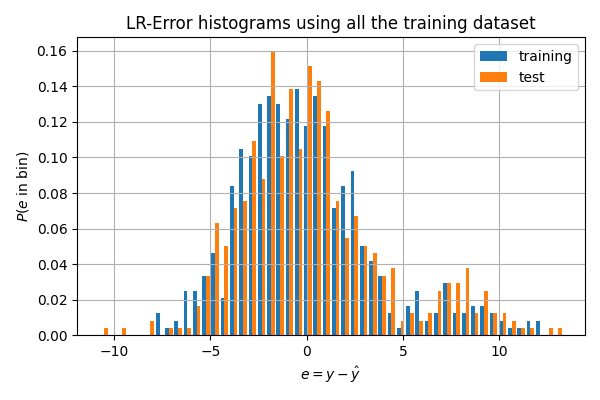
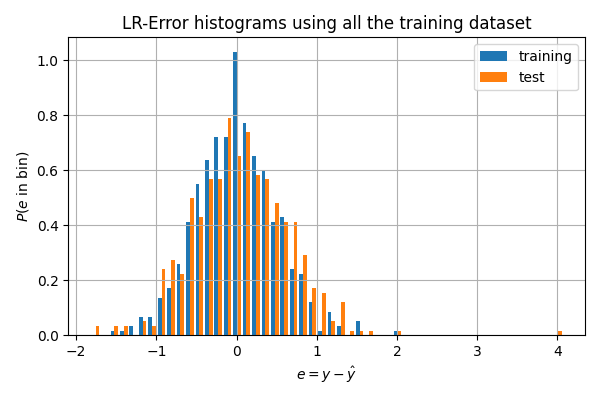
loop on random seed, dataframe->array

diff --git a/LAB01/sub/regression.py b/LAB01/sub/regression.py
@@ -18,9 +18,9 @@ class regression:
         self.y = y
         self.X_tr=X[0:Ntr]
         self.X_te=X[Ntr:]
-        self.y_tr=y[0:Ntr]
-        self.y_te=y[Ntr:]
-        self.w_hat_LSS = np.zeros((self.Nf, ), dtype=float)
+        self.y_tr=y[0:Ntr].values
+        self.y_te=y[Ntr:].values
+        self.w_hat_LLS = np.zeros((self.Nf, ), dtype=float)
         self.w_hat_SD = np.zeros((self.Nf, ), dtype=float)
         self.sy = sy
         self.my = my
@@ -30,8 +30,8 @@ class regression:
         m = mymin.SolveLLS(self.y_tr, self.X_tr)
         m.run()
         self.w_hat_LLS = m.sol
-        self.y_hat_te_LLS = self.X_te @ self.w_hat_LLS
-        self.y_hat_tr_LLS = self.X_tr @ self.w_hat_LLS
+        self.y_hat_te_LLS = self.X_te.values @ self.w_hat_LLS
+        self.y_hat_tr_LLS = self.X_tr.values @ self.w_hat_LLS
         return
 
     def plot_LLS_vs_SD(self):
@@ -51,27 +51,27 @@ class regression:
         #plt.show()
 
     def steepestDescent(self):
-        y_tr = self.y_tr.values
+        y_tr = self.y_tr
         X_tr = self.X_tr.values
         m = mymin.steepestDescentAlgorithm(y_tr, X_tr)
         m.run(Nit = 20, eps=1e-6)
         self.w_hat_SD = m.sol
-        self.y_hat_te_SD = self.X_te @ self.w_hat_SD
-        self.y_hat_tr_SD = self.X_tr @ self.w_hat_SD
+        self.y_hat_te_SD = self.X_te.values @ self.w_hat_SD
+        self.y_hat_tr_SD = self.X_tr.values @ self.w_hat_SD
         return
     
     def plotHistrogram(self, title = "LLS-Error", algorithm = "LLS"):
-        y_tr = self.y_tr.values
-        y_te = self.y_te.values
+        y_tr = self.y_tr
+        y_te = self.y_te
         if algorithm == "LLS":
-            y_hat_tr = self.y_hat_tr_LLS.values
-            y_hat_te = self.y_hat_te_LLS.values
+            y_hat_tr = self.y_hat_tr_LLS
+            y_hat_te = self.y_hat_te_LLS
         elif algorithm == "SD":
-            y_hat_tr = self.y_hat_tr_SD.values
-            y_hat_te = self.y_hat_te_SD.values
+            y_hat_tr = self.y_hat_tr_SD
+            y_hat_te = self.y_hat_te_SD
         elif algorithm == "LR":
-            y_hat_tr = self.y_hat_tr_LR.values
-            y_hat_te = self.y_hat_te_LR.values
+            y_hat_tr = self.y_hat_tr_LR
+            y_hat_te = self.y_hat_te_LR
         E_tr= y_tr.reshape(len(y_tr),1) - y_hat_tr.reshape(len(y_tr),1)# training
         E_te= y_te.reshape(len(y_tr),1) - y_hat_te.reshape(len(y_tr),1) # test
         e=[E_tr.reshape(len(E_tr), ),E_te.reshape(len(E_tr), )]
@@ -89,11 +89,11 @@ class regression:
 
     def plotRegressionLine(self, title = "yhat_vs_y.png", algorithm = "LLS"):
         if algorithm == "LLS":
-            y_hat_te = self.y_hat_te_LLS.values
+            y_hat_te = self.y_hat_te_LLS
         elif algorithm == "SD":
-            y_hat_te = self.y_hat_te_SD.values
+            y_hat_te = self.y_hat_te_SD
         elif algorithm == "LR":
-            y_hat_te = self.y_hat_te_LR.values
+            y_hat_te = self.y_hat_te_LR
         plt.figure(figsize=(6,4))
         plt.plot(self.y_te, y_hat_te,'.', label = algorithm)
         v=plt.axis()
@@ -119,19 +119,19 @@ class regression:
          self.y_tr = self.y_tr * sy + my
 
     def errorsAndCoefficients(self, algorithm = "LLS"):
-        y_tr = self.y_tr.values
-        y_te = self.y_te.values
+        y_tr = self.y_tr
+        y_te = self.y_te
         if algorithm == "LLS":
-            y_hat_tr = self.y_hat_tr_LLS.values
-            y_hat_te = self.y_hat_te_LLS.values
+            y_hat_tr = self.y_hat_tr_LLS
+            y_hat_te = self.y_hat_te_LLS
             print("LLS:\n")
         elif algorithm == "SD":
-            y_hat_tr = self.y_hat_tr_SD.values
-            y_hat_te = self.y_hat_te_SD.values
+            y_hat_tr = self.y_hat_tr_SD
+            y_hat_te = self.y_hat_te_SD
             print("Steepest descent: \n")
         elif algorithm == "LR":
-            y_hat_tr = self.y_hat_tr_LR.values
-            y_hat_te = self.y_hat_te_LR.values
+            y_hat_tr = self.y_hat_tr_LR
+            y_hat_te = self.y_hat_te_LR
             print("Local regression: \n")
         
         E_tr= y_tr.reshape(len(y_tr),1) - y_hat_tr.reshape(len(y_tr),1)# training
@@ -164,13 +164,14 @@ class regression:
     def localRegression(self, N):
         y_hat_te = np.zeros([self.Nte, 1])
         y_hat_tr = np.zeros([self.Ntr, 1])
-        
+        X_te = self.X_te.values
+        X_tr = self.X_tr.values
         for iter in range(self.Nte):
             dist_te = []
             dist_tr = []
             for i in range(self.Ntr):
-                dist_te.append(euclidean_distance(self.X_te.iloc[iter], self.X_tr.iloc[i]))
-                dist_tr.append(euclidean_distance(self.X_tr.iloc[iter], self.X_tr.iloc[i]))
+                dist_te.append(euclidean_distance(X_te[iter, :], X_tr[i, :]))
+                dist_tr.append(euclidean_distance(X_tr[iter, :], X_tr[i, :]))
             
             neighbors_index_te = np.argsort(dist_te)
             neighbors_index_tr = np.argsort(dist_tr)
@@ -180,27 +181,24 @@ class regression:
             neighbors_ytr_tr = np.zeros([N, 1])
             for i in range(N):
                 
-                neighbors_Xtr_te[i] = self.X_tr.values[neighbors_index_te[i]]
-                neighbors_ytr_te[i] = self.y_tr.values[neighbors_index_te[i]]
+                neighbors_Xtr_te[i] = X_tr[neighbors_index_te[i]]
+                neighbors_ytr_te[i] = self.y_tr[neighbors_index_te[i]]
                  
-                neighbors_Xtr_tr[i] = self.X_tr.values[neighbors_index_tr[i]]
-                neighbors_ytr_tr[i] = self.y_tr.values[neighbors_index_tr[i]]
+                neighbors_Xtr_tr[i] = X_tr[neighbors_index_tr[i]]
+                neighbors_ytr_tr[i] = self.y_tr[neighbors_index_tr[i]]
 
-            X_tr_te = neighbors_Xtr_te
-            y_tr_te = neighbors_ytr_te
-            m1 = mymin.steepestDescentAlgorithm(y_tr_te, X_tr_te)
+
+            m1 = mymin.steepestDescentAlgorithm(neighbors_ytr_te, neighbors_Xtr_te)
             m1.run()
             w_hat_te = m1.sol
-            y_hat = self.X_te.iloc[iter] @ w_hat_te
+            y_hat = X_te[iter, :] @ w_hat_te
             y_hat_te[iter] = y_hat
               
-            X_tr_tr = np.array(neighbors_Xtr_tr)
-            y_tr_tr = np.array(neighbors_ytr_tr)
-            m2 = mymin.steepestDescentAlgorithm(y_tr_tr, X_tr_tr)
+            m2 = mymin.steepestDescentAlgorithm(neighbors_ytr_tr, neighbors_Xtr_tr)
             m2.run()
             w_hat_tr = m2.sol
-            y_hat = self.X_tr.iloc[iter] @ w_hat_tr
+            y_hat = X_tr[iter, :] @ w_hat_tr
             y_hat_tr[iter] = y_hat
 
-        self.y_hat_te_LR = pd.DataFrame(y_hat_te)
-        self.y_hat_tr_LR = pd.DataFrame(y_hat_tr)    
+        self.y_hat_te_LR = y_hat_te
+        self.y_hat_tr_LR = y_hat_tr    

diff --git a/LAB01/parkinson.py b/LAB01/parkinson.py
@@ -1,4 +1,4 @@
-#%%
+
 import sub.regression as myreg
 import numpy as np
 import matplotlib.pyplot as plt
@@ -28,6 +28,7 @@ print("\nThe features of the dataset are ", len(features))
 print("\n", features)
 print("\n\n")
 Np, Nc = X.shape
+Nf = Nc - 4
 Ntr = int(Np*0.5)
 Nte = Np - Ntr
 # Measure and show the covariance matrix
@@ -53,12 +54,17 @@ plt.savefig("C:\Coding\ICT_for_health\LAB01\charts\corr_coeffTotal.png")
 #plt.show()
 
 #Shuffle the data
-y_hat_tr_LLS = np.empty([Ntr,n_different_seed])
-y_hat_te_LLS = np.empty([Nte,n_different_seed])
-y_hat_tr_SD = np.empty([Ntr,n_different_seed])
-y_hat_te_SD = np.empty([Nte,n_different_seed])
-y_hat_tr_LR = np.empty([Ntr,n_different_seed])
-y_hat_te_LR = np.empty([Nte,n_different_seed])
+y_te = np.zeros([Ntr,n_different_seed])
+y_tr = np.zeros([Ntr,n_different_seed])
+y_hat_tr_LLS = np.zeros([Ntr,n_different_seed])
+y_hat_te_LLS = np.zeros([Nte,n_different_seed])
+w_hat_LLS = np.zeros([Nf, n_different_seed])
+y_hat_tr_SD = np.zeros([Ntr,n_different_seed])
+y_hat_te_SD = np.zeros([Nte,n_different_seed])
+w_hat_SD = np.zeros([Nf, n_different_seed])
+y_hat_tr_LR = np.zeros([Ntr,n_different_seed])
+y_hat_te_LR = np.zeros([Nte,n_different_seed])
+
 for i in range(n_different_seed):
     seed = np.random.seed()
     Xsh = X.sample(frac=1, replace=False, random_state=seed, axis=0, ignore_index=True)
@@ -81,16 +87,61 @@ for i in range(n_different_seed):
     #Excluding Jitter:DDP and Shimmer:DDA
     Xsh_norm=Xsh_norm.drop(['Jitter:DDP', 'Shimmer:DDA'],axis=1)
     r2 = myreg.regression(Xsh_norm, ysh_norm, Ntr, sy, my)
+    y_te[:, i] = r2.y_te
+    y_tr[:, i] = r2.y_tr
     #r2.localRegression(100)
     r2.LLS()
-    y_hat_te_LLS[i] = r2.y_hat_te_LLS.values.T
-    y_hat_tr_LLS.append(r2.y_hat_tr_LLS)
+    y_hat_te_LLS[:, i] = r2.y_hat_te_LLS
+    y_hat_tr_LLS[:, i] = r2.y_hat_tr_LLS
+    w_hat_LLS[:, i] =  r2.w_hat_LLS
+    
     r2.steepestDescent()
-    y_hat_te_SD.append(r2.y_hat_te_SD)
-    y_hat_tr_SD.append(r2.y_hat_tr_SD)
+    y_hat_te_SD[:, i] = r2.y_hat_te_SD[:, 0]
+    y_hat_tr_SD[:, i] = r2.y_hat_tr_SD[:, 0]
+    w_hat_SD[:, i] =  r2.w_hat_SD[:, 0]
+
+    r2.localRegression(100)
+    y_hat_te_LR[:, i] = r2.y_hat_te_LR[:, 0]
+    y_hat_tr_LR[:, i] = r2.y_hat_tr_LR[:, 0]
 
 
 
+for i in range(Ntr):
+    sum_y_te = 0
+    sum_y_tr = 0
+    sum_y_hat_te_LLS = 0
+    sum_y_hat_tr_LLS = 0
+    sum_y_hat_te_SD = 0
+    sum_y_hat_tr_SD = 0
+    sum_y_hat_te_LR = 0
+    sum_y_hat_tr_LR = 0
+    sum_w_hat_LLS = 0
+    sum_w_hat_SD = 0
+    for j in range(n_different_seed):
+        sum_y_te += y_te[i][j]
+        sum_y_tr += y_tr[i][j]
+        sum_y_hat_te_LLS += y_hat_te_LLS[i][j]
+        sum_y_hat_tr_LLS += y_hat_tr_LLS[i][j]
+        sum_y_hat_te_SD += y_hat_te_SD[i][j]
+        sum_y_hat_tr_SD += y_hat_tr_SD[i][j]
+        sum_y_hat_te_LR += y_hat_te_LR[i][j]
+        sum_y_hat_tr_LR += y_hat_tr_LR[i][j]
+        if i <= Nf - 1:
+            sum_w_hat_LLS += w_hat_LLS[i][j]
+            sum_w_hat_SD += w_hat_SD[i][j]
+
+    r2.y_te[i] = sum_y_te / n_different_seed
+    r2.y_tr[i] = sum_y_tr / n_different_seed
+    r2.y_hat_te_LLS[i]= sum_y_hat_te_LLS / n_different_seed
+    r2.y_hat_tr_LLS[i]= sum_y_hat_tr_LLS / n_different_seed
+    r2.y_hat_te_SD[i]= sum_y_hat_te_SD / n_different_seed
+    r2.y_hat_tr_SD[i]= sum_y_hat_tr_SD / n_different_seed
+    r2.y_hat_te_LR[i]= sum_y_hat_te_LR / n_different_seed
+    r2.y_hat_tr_LR[i]= sum_y_hat_tr_LR / n_different_seed
+    
+    if i <= Nf - 1:
+        r2.w_hat_SD[i] = sum_w_hat_SD / n_different_seed
+        r2.w_hat_SD[i] = sum_w_hat_SD / n_different_seed
 
 r2.plot_LLS_vs_SD()
 r2.denormalize(sy, my)
@@ -100,13 +151,13 @@ r2.plotRegressionLine(title="regressionline_SD", algorithm="SD")
 r2.plotRegressionLine(title="regressionline_LR", algorithm="LR")
 r2.plotHistrogram(title="LLS-Error", algorithm="LLS")
 r2.plotHistrogram(title="SD-Error", algorithm="SD")
-r2.plotHistrogram(title="LR-Error", algorithm="SD")
+r2.plotHistrogram(title="LR-Error", algorithm="LR")
 r2.errorsAndCoefficients(algorithm="LLS")
 r2.errorsAndCoefficients(algorithm="SD")
 r2.errorsAndCoefficients(algorithm="LR")
 
 
-
+""" 
 Xsh = X.sample(frac=1, replace=False, random_state=309709, axis=0, ignore_index=True)
 # Generate training and test matrices
 Ntr = int(Np*0.5)
@@ -138,8 +189,9 @@ r2.plotRegressionLine(title="regressionline_SD", algorithm="SD")
 r2.plotRegressionLine(title="regressionline_LR", algorithm="LR")
 r2.plotHistrogram(title="LLS-Error", algorithm="LLS")
 r2.plotHistrogram(title="SD-Error", algorithm="SD")
-r2.plotHistrogram(title="LR-Error", algorithm="SD")
+r2.plotHistrogram(title="LR-Error", algorithm="LR")
 r2.errorsAndCoefficients(algorithm="LLS")
 r2.errorsAndCoefficients(algorithm="SD")
 r2.errorsAndCoefficients(algorithm="LR")
-# %%
+
+ """
